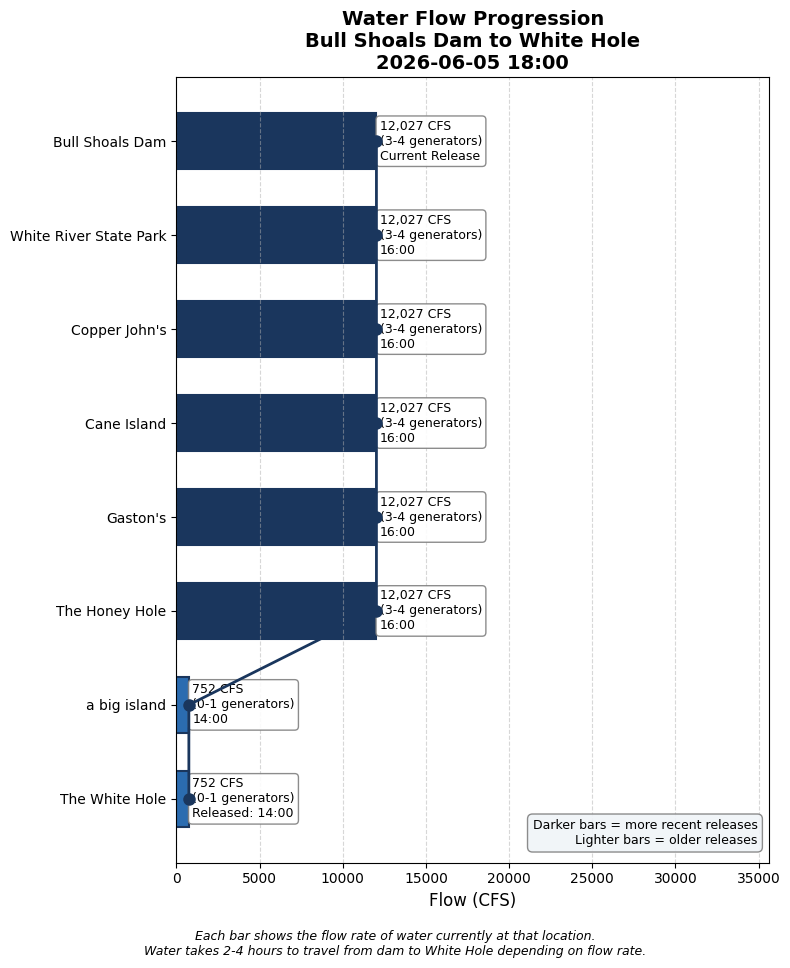
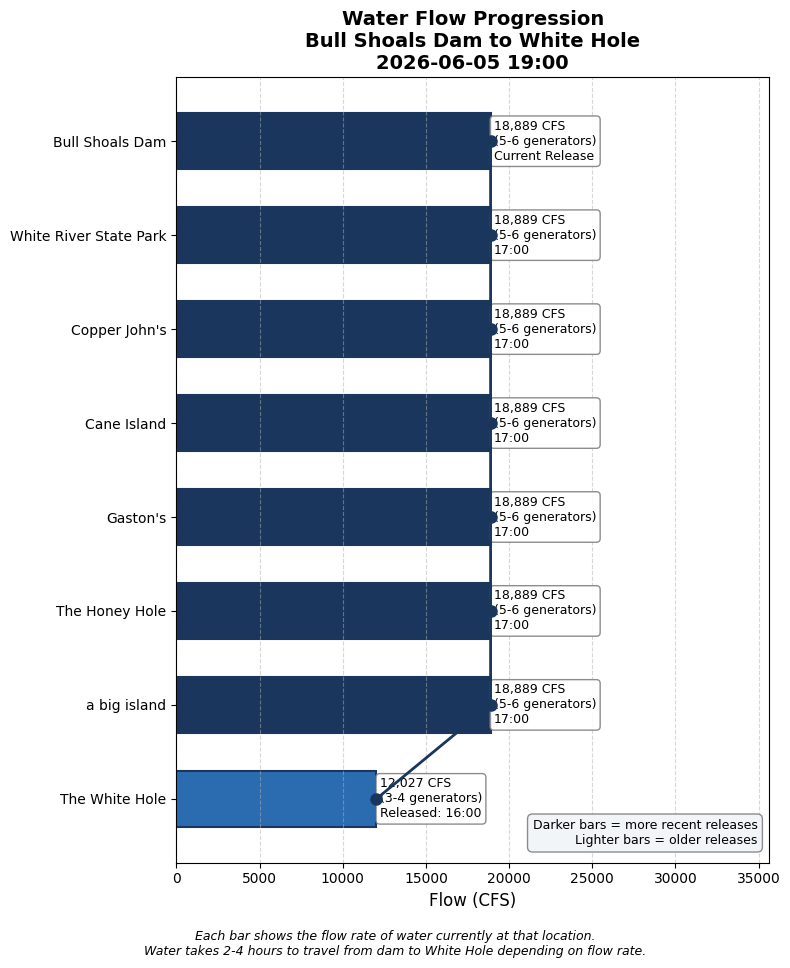
Update water conditions 2026-06-05 19:00

Changed region(s): [[0.2127, 0.093, 0.7595, 0.8678]]

diff --git a/white_hole_conditions.html b/white_hole_conditions.html
@@ -3,7 +3,7 @@
 <head>
     <meta charset="UTF-8">
     <meta name="viewport" content="width=device-width, initial-scale=1.0">
-    <title>White Hole Conditions - 2026-06-05 18:00</title>
+    <title>White Hole Conditions - 2026-06-05 19:00</title>
     <style>
         body {
             font-family: -apple-system, BlinkMacSystemFont, 'Segoe UI', Roboto, sans-serif;
@@ -23,7 +23,7 @@
             margin-bottom: 20px;
         }
         .headline-banner {
-            background-color: #319795;
+            background-color: #1a365d;
             color: white;
             border-radius: 12px;
             padding: 25px;
@@ -73,12 +73,12 @@
             font-weight: 500;
         }
         .pill.wading {
-            background-color: #d1fae5;
-            color: #065f46;
+            background-color: #fee2e2;
+            color: #991b1b;
         }
         .pill.boating {
-            background-color: #fef3c7;
-            color: #92400e;
+            background-color: #fee2e2;
+            color: #991b1b;
         }
         .timeline-box {
             background-color: white;
@@ -148,23 +148,23 @@
 </head>
 <body>
     <h1>White Hole Current Conditions</h1>
-    <p class="subtitle">Friday, June 05, 2026 at 06:00 PM</p>
+    <p class="subtitle">Friday, June 05, 2026 at 07:00 PM</p>
 
     <!-- HEADLINE BANNER -->
     <div class="headline-banner">
-        <div class="main-status">✅ GOOD WADING — Conditions favorable</div>
-        <div class="forecast-status">⏱ RISING WATER arriving in ~32 minutes</div>
-        <div class="forecast-status" style="margin-top: 5px; opacity: 0.9;">📅 HIGH WATER SCHEDULED — ~8:22 PM</div>
+        <div class="main-status">🚫 NO WADING — Water too high for safe wading</div>
+        <div class="forecast-status">⏱ RISING WATER arriving in ~6 minutes</div>
+        
     </div>
 
     <!-- CURRENT CONDITIONS -->
     <div class="current-conditions">
         <h3>Current Conditions at White Hole</h3>
-        <div class="flow-display">752 CFS</div>
-        <div class="generator-display">Equivalent to 0-1 generators</div>
+        <div class="flow-display">12,027 CFS</div>
+        <div class="generator-display">Equivalent to 3-4 generators</div>
         <div class="condition-pills">
-            <span class="pill wading">Excellent Wading</span>
-            <span class="pill boating">Low For Boating</span>
+            <span class="pill wading">No Wading</span>
+            <span class="pill boating">High Water</span>
         </div>
         <a href="https://www.youtube.com/channel/UCAXhb9nFnsfu367AthDrgIA/live" target="_blank" class="webcam-link" style="margin-top: 15px;">
             📹 View Live Webcam
@@ -188,7 +188,15 @@
                     
                 <tr><td colspan="3" style="padding: 8px 10px; font-size: 0.8em; font-weight: bold; color: #6b46c1; text-transform: uppercase; letter-spacing: 0.05em; background-color: #f3e8ff;">Scheduled (SWPA forecast)</td></tr>
                 
-                    <tr style="background-color: #faf5ff; ">
+                    <tr style="background-color: #faf5ff; border-left: 4px solid #38a169;">
+                        <td style="padding: 10px; font-weight: bold;">10 PM</td>
+                        <td style="padding: 10px;">723 CFS<br><small style="color: #666;">(0-1 generators: 473 generation + 250 min flow)</small></td>
+                        <td style="padding: 10px;">~1:44 AM
+                            <span style="display: inline-block; margin-left: 6px; padding: 2px 8px; border-radius: 12px; font-size: 0.8em; background-color: #d1fae5; color: #065f46;">Excellent Wading</span>
+                        </td>
+                    </tr>
+                
+                    <tr style="background-color: #faf5ff; border-left: 4px solid #38a169;">
                         <td style="padding: 10px; font-weight: bold;">9 PM</td>
                         <td style="padding: 10px;">723 CFS<br><small style="color: #666;">(0-1 generators: 473 generation + 250 min flow)</small></td>
                         <td style="padding: 10px;">~12:44 AM
@@ -196,7 +204,7 @@
                         </td>
                     </tr>
                 
-                    <tr style="background-color: #faf5ff; ">
+                    <tr style="background-color: #faf5ff; border-left: 4px solid #38a169;">
                         <td style="padding: 10px; font-weight: bold;">8 PM</td>
                         <td style="padding: 10px;">723 CFS<br><small style="color: #666;">(0-1 generators: 473 generation + 250 min flow)</small></td>
                         <td style="padding: 10px;">~11:44 PM
@@ -204,18 +212,10 @@
                         </td>
                     </tr>
                 
-                    <tr style="background-color: #faf5ff; border-left: 4px solid #e53e3e;">
+                    <tr style="background-color: #faf5ff; ">
                         <td style="padding: 10px; font-weight: bold;">7 PM</td>
                         <td style="padding: 10px;">7,475 CFS<br><small style="color: #666;">(2-3 generators: 7225 generation + 250 min flow)</small></td>
                         <td style="padding: 10px;">~9:52 PM
-                            <span style="display: inline-block; margin-left: 6px; padding: 2px 8px; border-radius: 12px; font-size: 0.8em; background-color: #fee2e2; color: #991b1b;">No Wading</span>
-                        </td>
-                    </tr>
-                
-                    <tr style="background-color: #faf5ff; border-left: 4px solid #e53e3e;">
-                        <td style="padding: 10px; font-weight: bold;">6 PM</td>
-                        <td style="padding: 10px;">14,226 CFS<br><small style="color: #666;">(4-5 generators: 13976 generation + 250 min flow)</small></td>
-                        <td style="padding: 10px;">~8:22 PM
                             <span style="display: inline-block; margin-left: 6px; padding: 2px 8px; border-radius: 12px; font-size: 0.8em; background-color: #fee2e2; color: #991b1b;">No Wading</span>
                         </td>
                     </tr>
@@ -225,26 +225,20 @@
                 <tr><td colspan="3" style="padding: 8px 10px; font-size: 0.8em; font-weight: bold; color: #2b6cb0; text-transform: uppercase; letter-spacing: 0.05em; background-color: #ebf8ff;">Actual (dam readings)</td></tr>
                 
                     <tr style="background-color: #ebf8ff;">
-                        <td style="padding: 10px; font-weight: bold;">4:00 PM</td>
-                        <td style="padding: 10px;">12,027 CFS<br><small style="color: #666;">(3-4 generators)</small></td>
-                        <td style="padding: 10px;"><span style="color: #2b6cb0;">→ Arrives ~6:30 PM (in 30 min)</span></td>
-                    </tr>
-                
-                    <tr style="background-color: #ebf8ff;">
-                        <td style="padding: 10px; font-weight: bold;">3:00 PM</td>
-                        <td style="padding: 10px;">3,948 CFS<br><small style="color: #666;">(1-2 generators)</small></td>
-                        <td style="padding: 10px;"><span style="color: #2b6cb0;">→ Arrives ~6:32 PM (in 32 min)</span></td>
+                        <td style="padding: 10px; font-weight: bold;">5:00 PM</td>
+                        <td style="padding: 10px;">18,889 CFS<br><small style="color: #666;">(5-6 generators)</small></td>
+                        <td style="padding: 10px;"><span style="color: #2b6cb0;">→ Arrives ~7:07 PM (in 6 min)</span></td>
                     </tr>
                 
                     <tr style="background-color: #e6fffa;">
-                        <td style="padding: 10px; font-weight: bold;">2:00 PM</td>
-                        <td style="padding: 10px;">752 CFS<br><small style="color: #666;">(0-1 generators)</small></td>
+                        <td style="padding: 10px; font-weight: bold;">4:00 PM</td>
+                        <td style="padding: 10px;">12,027 CFS<br><small style="color: #666;">(3-4 generators)</small></td>
                         <td style="padding: 10px;"><span style="color: #319795; font-weight: bold;">← AT WHITE HOLE NOW</span></td>
                     </tr>
                 
                     <tr style="">
-                        <td style="padding: 10px; font-weight: bold;">11:00 AM</td>
-                        <td style="padding: 10px;">736 CFS<br><small style="color: #666;">(0-1 generators)</small></td>
+                        <td style="padding: 10px; font-weight: bold;">12:00 PM</td>
+                        <td style="padding: 10px;">714 CFS<br><small style="color: #666;">(0-1 generators)</small></td>
                         <td style="padding: 10px;"><span style="color: #718096;">passed</span></td>
                     </tr>
                 
@@ -274,9 +268,9 @@
         </summary>
         <div style="padding: 15px;">
             <ul>
-                <li>Latest dam reading: 12,027 CFS at 2026-06-05 16:00</li>
-                <li>Travel time to White Hole: 3.7 hours at current flow</li>
-                <li>White Hole conditions based on dam reading from: 2026-06-05 14:00</li>
+                <li>Latest dam reading: 18,889 CFS at 2026-06-05 17:00</li>
+                <li>Travel time to White Hole: 2.5 hours at current flow</li>
+                <li>White Hole conditions based on dam reading from: 2026-06-05 16:00</li>
             </ul>
         </div>
     </details>
@@ -298,6 +292,13 @@
                     </thead>
                     <tbody>
                         
+                <tr style="border-bottom: 1px solid #eee;">
+                    <td style="padding: 8px;">2026-06-05 17:00</td>
+                    <td style="padding: 8px; text-align: right;">18889</td>
+                    <td style="padding: 8px; text-align: right;">5.7</td>
+                    <td style="padding: 8px; text-align: right;">2.1</td>
+                </tr>
+                
                 <tr style="border-bottom: 1px solid #eee;">
                     <td style="padding: 8px;">2026-06-05 16:00</td>
                     <td style="padding: 8px; text-align: right;">12027</td>
@@ -361,13 +362,6 @@
                     <td style="padding: 8px; text-align: right;">3.7</td>
                 </tr>
                 
-                <tr style="border-bottom: 1px solid #eee;">
-                    <td style="padding: 8px;">2026-06-05 07:00</td>
-                    <td style="padding: 8px; text-align: right;">728</td>
-                    <td style="padding: 8px; text-align: right;">0.2</td>
-                    <td style="padding: 8px; text-align: right;">3.7</td>
-                </tr>
-                
                     </tbody>
                 </table>
             </div>
@@ -375,7 +369,7 @@
         
 
     <div class="timestamp">
-        Data retrieved and processed on 2026-06-05 18:00:08
+        Data retrieved and processed on 2026-06-05 19:00:08
     </div>
 </body>
 </html>
